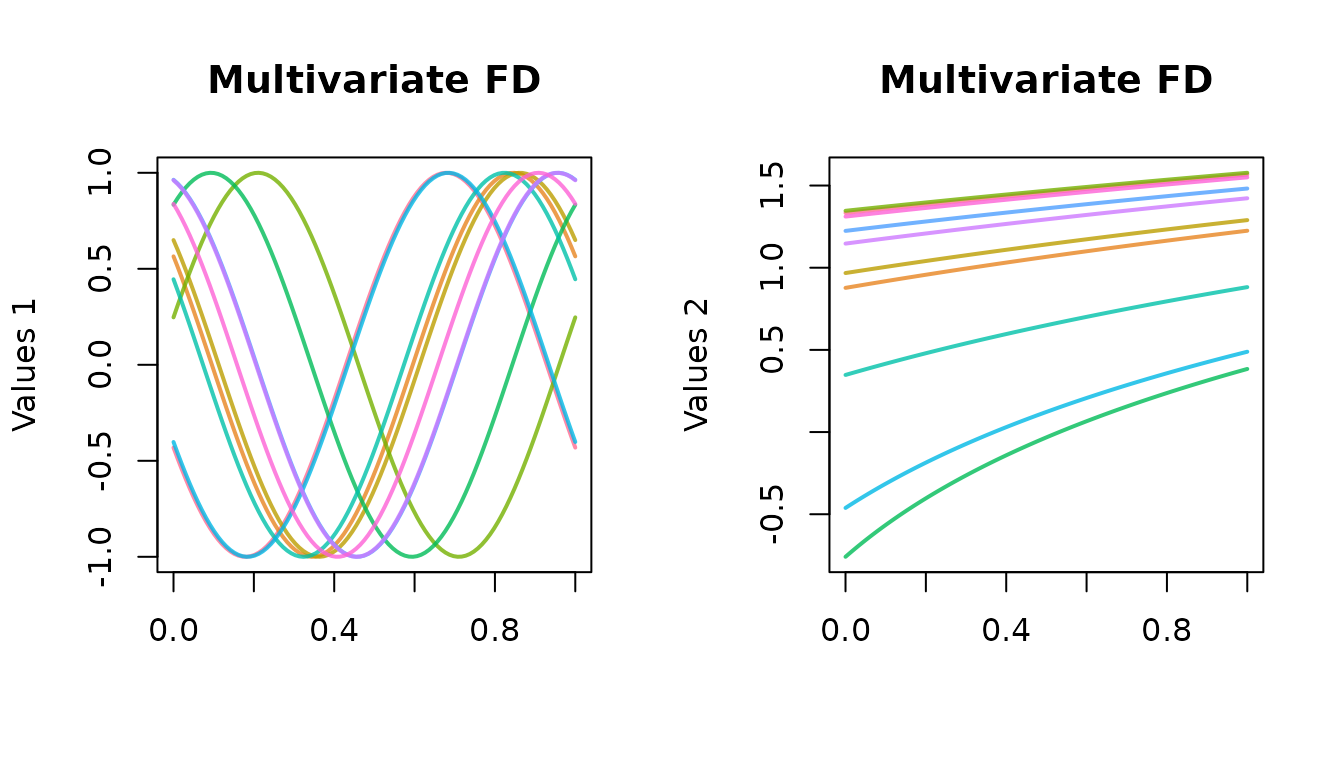
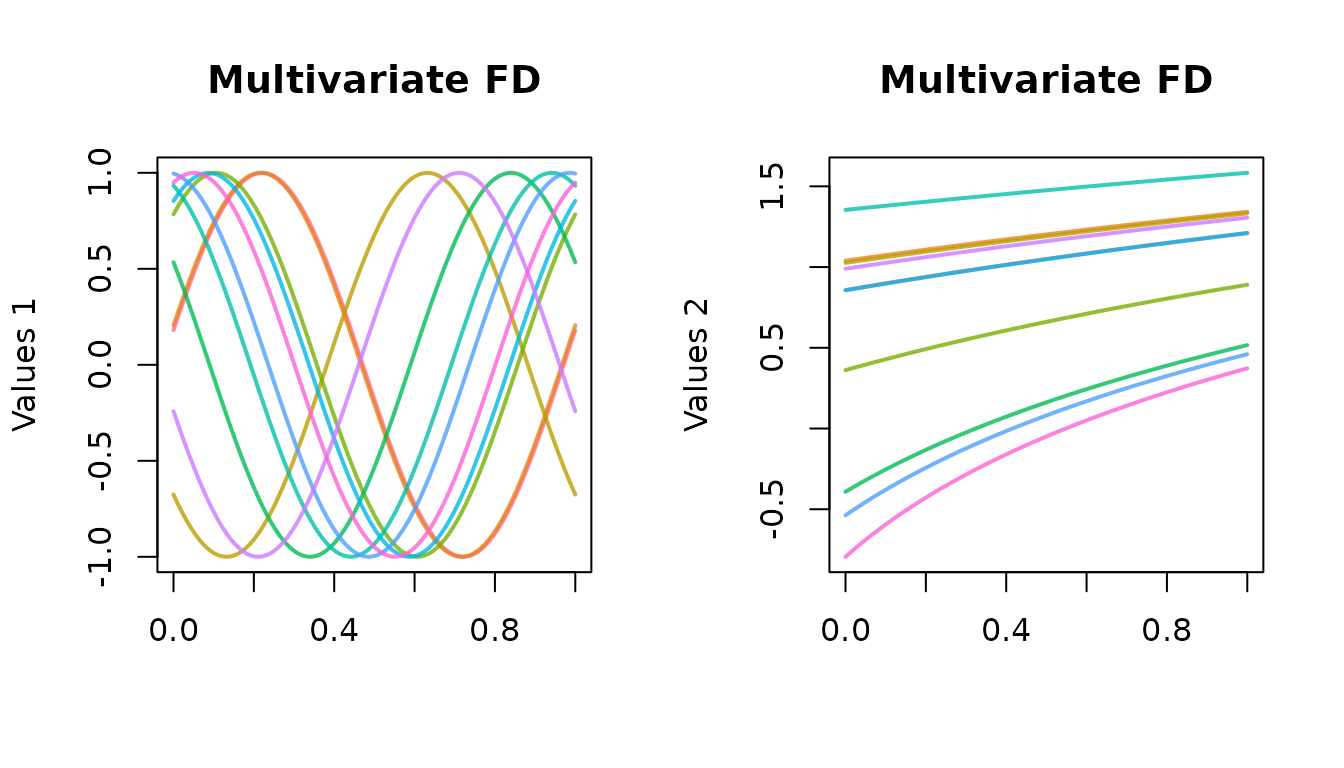
Deploying to gh-pages from @ astamm/roahd@613a776ad0b89173ab76749149ef0c1ee2dfa532 🚀

diff --git a/articles/roahd.html b/articles/roahd.html
@@ -79,7 +79,7 @@
       <h1 data-toc-skip>roahd</h1>
                         <h4 data-toc-skip class="author">Nicholas Tarabelloni</h4>
             
-            <h4 data-toc-skip class="date">2022-01-31</h4>
+            <h4 data-toc-skip class="date">2022-02-08</h4>
       
       <small class="dont-index">Source: <a href="https://github.com/astamm/roahd/blob/HEAD/vignettes/roahd.Rmd" class="external-link"><code>vignettes/roahd.Rmd</code></a></small>
       <div class="hidden name"><code>roahd.Rmd</code></div>
@@ -106,11 +106,9 @@
 <p><code>S3</code> class <code>fData</code> implements a representation of univariate functional datasets. They are obtained once specifying, for each observation in the functional dataset, a set of measurements over a discrete grid, representing the dependent variable indexing the functional dataset (e.g. time).</p>
 <p>In other words, if we denote by <span class="math inline">\(T = [t_0, t_1, \ldots, t_{P-1}]\)</span> an evenly spaced grid (<span class="math inline">\(t_i - t_{i-1} = h &gt; 0\)</span>), and imagine to deal with a dataset <span class="math inline">\(D_{i,j} = X_i(t_j)\)</span>, <span class="math inline">\(\forall i = 1, \ldots, N\)</span> and <span class="math inline">\(\forall j=0, \ldots, P-1\)</span>, the object <code>fData</code> is built starting from the grid and the values in the following way:</p>
 <div class="sourceCode" id="cb1"><pre class="downlit sourceCode r">
-<code class="sourceCode R"><span class="kw"><a href="https://rdrr.io/r/base/library.html" class="external-link">library</a></span><span class="op">(</span> <span class="va"><a href="https://astamm.github.io/roahd/">roahd</a></span> <span class="op">)</span></code></pre></div>
-<pre><code><span class="co">## Warning in register(): Can't find generic `scale_type` in package ggplot2 to</span>
-<span class="co">## register S3 method.</span></code></pre>
-<div class="sourceCode" id="cb3"><pre class="downlit sourceCode r">
-<code class="sourceCode R"><span class="co"># The number of observations in the functional dataset.</span>
+<code class="sourceCode R"><span class="kw"><a href="https://rdrr.io/r/base/library.html" class="external-link">library</a></span><span class="op">(</span> <span class="va"><a href="https://astamm.github.io/roahd/">roahd</a></span> <span class="op">)</span>
+
+<span class="co"># The number of observations in the functional dataset.</span>
 <span class="va">N</span> <span class="op">=</span> <span class="fl">5</span>
 <span class="co"># The number of points in the 1D grid where the functional data are measured.</span>
 <span class="va">P</span> <span class="op">=</span> <span class="fl">1e2</span>
@@ -144,7 +142,7 @@
 <span class="co">##  $ N     : int 5</span>
 <span class="co">##  $ values: num [1:5, 1:100] 0 1 0 0 -Inf ...</span>
 <span class="co">##  - attr(*, "class")= chr "fData"</span></code></pre>
-<div class="sourceCode" id="cb5"><pre class="downlit sourceCode r">
+<div class="sourceCode" id="cb3"><pre class="downlit sourceCode r">
 <code class="sourceCode R"><span class="fu"><a href="https://rdrr.io/r/graphics/plot.default.html" class="external-link">plot</a></span><span class="op">(</span> <span class="va">fD</span>, main <span class="op">=</span> <span class="st">'Univariate FD'</span>, xlab <span class="op">=</span> <span class="st">'time [s]'</span>, ylab <span class="op">=</span> <span class="st">'values'</span>, lwd <span class="op">=</span> <span class="fl">2</span> <span class="op">)</span></code></pre></div>
 <p><img src="roahd_files/figure-html/fData-1.png" width="384" style="display: block; margin: auto;"> Thus, an object <code>fData</code> is a list containing: the fields <code>t0</code>, <code>tP</code>, defining the starting and end point of the one dimensional grid of the <code>fData</code> object, the constant step size <code>h</code> and the number of grid points <code>P</code> and the field <code>values</code> defining the measurements of the dataset over the one dimensional grid.</p>
 </div>
@@ -152,7 +150,7 @@
 <h3 id="mfdata">mfData<a class="anchor" aria-label="anchor" href="#mfdata"></a>
 </h3>
 <p>An <code>mfData</code> object, instead, implements a multivariate functional dataset, i.e.  a collection of functions having more than one components, each one depending on the same variable. In practice, we deal with a discrete grid <span class="math inline">\([t_0, t_1, \ldots, t_{P-1}]\)</span> and a dataset of <span class="math inline">\(N\)</span> elements, each one having <span class="math inline">\(L\)</span> components observed over the same discrete grid: <span class="math inline">\(D_{i,j,k} = X_{i,k}(t_{j})\)</span>, <span class="math inline">\(\forall i = 1, \ldots, N\)</span>, <span class="math inline">\(\forall j = 0, \ldots, P - 1\)</span> and <span class="math inline">\(\forall k = 1, \ldots, L\)</span>.</p>
-<div class="sourceCode" id="cb6"><pre class="downlit sourceCode r">
+<div class="sourceCode" id="cb4"><pre class="downlit sourceCode r">
 <code class="sourceCode R"><span class="co"># Creating some values for first component of the dataset</span>
 <span class="va">Data_1</span> <span class="op">=</span> <span class="fu"><a href="https://rdrr.io/r/base/t.html" class="external-link">t</a></span><span class="op">(</span> <span class="fu"><a href="https://rdrr.io/r/base/lapply.html" class="external-link">sapply</a></span><span class="op">(</span> <span class="fu"><a href="https://rdrr.io/r/stats/Uniform.html" class="external-link">runif</a></span><span class="op">(</span> <span class="fl">10</span>, <span class="fl">0</span>, <span class="fl">4</span> <span class="op">)</span>, 
                     <span class="kw">function</span><span class="op">(</span> <span class="va">phase</span> <span class="op">)</span> <span class="fu"><a href="https://rdrr.io/r/base/Trig.html" class="external-link">sin</a></span><span class="op">(</span> <span class="fl">2</span> <span class="op">*</span> <span class="va">pi</span> <span class="op">*</span> <span class="va">grid</span> <span class="op">+</span> <span class="va">phase</span> <span class="op">)</span> <span class="op">)</span> <span class="op">)</span>
@@ -182,7 +180,7 @@
 <span class="co">##   .. ..$ h     : num 0.0101</span>
 <span class="co">##   .. ..$ P     : int 100</span>
 <span class="co">##   .. ..$ N     : int 10</span>
-<span class="co">##   .. ..$ values: num [1:10, 1:100] -0.431 0.565 0.65 0.247 0.834 ...</span>
+<span class="co">##   .. ..$ values: num [1:10, 1:100] 0.18 0.206 -0.676 0.784 0.534 ...</span>
 <span class="co">##   .. ..- attr(*, "class")= chr "fData"</span>
 <span class="co">##   ..$ :List of 6</span>
 <span class="co">##   .. ..$ t0    : num 0</span>
@@ -190,23 +188,23 @@
 <span class="co">##   .. ..$ h     : num 0.0101</span>
 <span class="co">##   .. ..$ P     : int 100</span>
 <span class="co">##   .. ..$ N     : int 10</span>
-<span class="co">##   .. ..$ values: num [1:10, 1:100] 1.333 0.877 0.968 1.346 -0.759 ...</span>
+<span class="co">##   .. ..$ values: num [1:10, 1:100] 0.858 1.04 1.026 0.362 -0.392 ...</span>
 <span class="co">##   .. ..- attr(*, "class")= chr "fData"</span>
 <span class="co">##  - attr(*, "class")= chr "mfData"</span></code></pre>
-<div class="sourceCode" id="cb8"><pre class="downlit sourceCode r">
+<div class="sourceCode" id="cb6"><pre class="downlit sourceCode r">
 <code class="sourceCode R"><span class="co"># Each component of the mfData object is an fData object </span>
 <span class="fu"><a href="https://rdrr.io/r/base/lapply.html" class="external-link">sapply</a></span><span class="op">(</span> <span class="va">mfD</span><span class="op">$</span><span class="va">fDList</span>, <span class="va">class</span> <span class="op">)</span></code></pre></div>
 <pre><code><span class="co">## [1] "fData" "fData"</span></code></pre>
-<div class="sourceCode" id="cb10"><pre class="downlit sourceCode r">
+<div class="sourceCode" id="cb8"><pre class="downlit sourceCode r">
 <code class="sourceCode R"><span class="fu"><a href="https://rdrr.io/r/graphics/plot.default.html" class="external-link">plot</a></span><span class="op">(</span> <span class="va">mfD</span>, lwd <span class="op">=</span> <span class="fl">2</span>, main <span class="op">=</span> <span class="st">'Multivariate FD'</span>,
       xlab <span class="op">=</span> <span class="st">'time'</span>, ylab <span class="op">=</span> <span class="fu"><a href="https://rdrr.io/r/base/list.html" class="external-link">list</a></span><span class="op">(</span> <span class="st">'Values 1'</span>, <span class="st">'Values 2'</span> <span class="op">)</span><span class="op">)</span></code></pre></div>
 <p><img src="roahd_files/figure-html/mfData-1.png" width="672" style="display: block; margin: auto;"></p>
 <p>The fact that <code>mfData</code> components are <code>fData</code> objects is indeed conceptually very natural, but also allows for a seamless application of <code>S3</code> methods meant for <code>fData</code> on multivariate functional data components, making the exploration and manipulation of multivariate datasets rather easy:</p>
-<div class="sourceCode" id="cb11"><pre class="downlit sourceCode r">
+<div class="sourceCode" id="cb9"><pre class="downlit sourceCode r">
 <code class="sourceCode R"><span class="fu"><a href="https://rdrr.io/r/graphics/plot.default.html" class="external-link">plot</a></span><span class="op">(</span> <span class="va">mfD</span><span class="op">$</span><span class="va">fDList</span><span class="op">[[</span> <span class="fl">1</span> <span class="op">]</span><span class="op">]</span>, main <span class="op">=</span> <span class="st">'First component'</span>, 
       xlab <span class="op">=</span> <span class="st">'time'</span>, ylab <span class="op">=</span> <span class="st">'Values'</span>, lwd <span class="op">=</span> <span class="fl">2</span> <span class="op">)</span></code></pre></div>
 <p>Moreover, <code>mfData</code> objects can be obtained also from a set of homogeneous <code>fData</code> objects, i.e. of equal sample size and defined on the same grid:</p>
-<div class="sourceCode" id="cb12"><pre class="downlit sourceCode r">
+<div class="sourceCode" id="cb10"><pre class="downlit sourceCode r">
 <code class="sourceCode R"><span class="va">fD_1</span> <span class="op">=</span> <span class="fu"><a href="../reference/fData.html">fData</a></span><span class="op">(</span> <span class="va">grid</span>, <span class="va">Data_1</span> <span class="op">)</span>
 
 <span class="va">fD_2</span> <span class="op">=</span> <span class="fu"><a href="../reference/fData.html">fData</a></span><span class="op">(</span> <span class="va">grid</span>, <span class="va">Data_2</span> <span class="op">)</span>
@@ -219,7 +217,7 @@
 <h3 id="subsetting-fdata">Subsetting fData<a class="anchor" aria-label="anchor" href="#subsetting-fdata"></a>
 </h3>
 <p><code>fData</code> objects can be subset using a suitably overloaded operator <code>[.fData</code>, that allows for the use of standard slices of <code>matrix</code> and <code>array</code> classes also for <code>fData</code>.</p>
-<div class="sourceCode" id="cb13"><pre class="downlit sourceCode r">
+<div class="sourceCode" id="cb11"><pre class="downlit sourceCode r">
 <code class="sourceCode R"><span class="co"># Subsetting fData and returning result in matrix form</span>
 <span class="va">fD</span><span class="op">[</span> <span class="fl">1</span> , <span class="fl">1</span>, as_fData <span class="op">=</span> <span class="cn">FALSE</span> <span class="op">]</span>
 
@@ -241,7 +239,7 @@
 </h3>
 <p>An algebra of <code>fData</code> objects is also implemented, making it easy to sum, subtract, multiply and divide these objects by meaningful and compliant structures.</p>
 <p><strong>Sums</strong> and <strong>subtractions</strong>, available through <code>+</code> and <code>-</code> operators (see help at <code>+-.fData</code>), allow to sum an <code>fData</code> on the left hand side and a compliant structure on the right hand side. This can be either another <code>fData</code> of the same sample size and defined over the same grid, or a 1D/2D data structure with a number of columns equal <code>fData</code>’s grid length (i.e. <code>P</code>), and number of rows equal to <code>fData</code>’s sample size (i.e. <code>N</code>) or equal to one (in this case the only observation available is recycled <code>N</code> times). The operations are then performed element-wise between the lhs and rhs.</p>
-<div class="sourceCode" id="cb14"><pre class="downlit sourceCode r">
+<div class="sourceCode" id="cb12"><pre class="downlit sourceCode r">
 <code class="sourceCode R"><span class="va">fD</span> <span class="op">+</span> <span class="va">fD</span>
 
 <span class="va">fD</span> <span class="op">+</span> <span class="fu"><a href="https://rdrr.io/r/base/matrix.html" class="external-link">matrix</a></span><span class="op">(</span> <span class="fl">1</span>, nrow <span class="op">=</span> <span class="va">N</span>, ncol <span class="op">=</span> <span class="va">P</span> <span class="op">)</span>
@@ -250,7 +248,7 @@
 
 <span class="va">fD</span> <span class="op">+</span> <span class="fl">1</span> <span class="op">:</span> <span class="va">P</span> </code></pre></div>
 <p><strong>Multiplication</strong> and <strong>division</strong>, instead, is implemented only for an <code>fData</code> left hand side and a numeric variable or numeric vector right hand side. In the first case, each function in the functional dataset is multiplied/divided by the specified quantity; in the second case, specifying a vector of length <code>N</code>, the multiplication/division of each functional observation is carried out by the corresponding quantity in the vector, in an element-wise way:</p>
-<div class="sourceCode" id="cb15"><pre class="downlit sourceCode r">
+<div class="sourceCode" id="cb13"><pre class="downlit sourceCode r">
 <code class="sourceCode R"><span class="va">fD</span> <span class="op">*</span> <span class="fl">2</span>
 
 <span class="va">fD</span> <span class="op">/</span> <span class="fl">3</span>
@@ -275,7 +273,7 @@
 </h3>
 <p><code>roahd</code> provides a number of depth definitions, that are exploited by the visualization functions but can also be used by themselves. These are based on the notion of <strong>Band Depth</strong> <span class="citation">(López-Pintado and Romo 2007, 2009)</span>.</p>
 <p><strong>Band Depth</strong> and <strong>Modified Band Depth</strong> are implemented in the functions <code>BD</code> and <code>MBD</code>. Both of them can work with either an <code>fData</code> object, specifying the univariate functional dataset whose depths must be computed, or a matrix of data values (e.g. in the form of <code>fData$values</code> output). <code>MBD</code> can be called with the additional parameters <code>manage_ties</code> (defaulting to <code>FALSE</code>), specifying whether a check for the presence of tied data must be made prior to computing depths, and therefore a suitable computing strategy must be used. The implementation of <code>MBD</code> exploits the recommendations of <span class="citation">(Sun, Genton, and Nychka 2012)</span>, but extends them in order to accommodate for the possible presence of ties.</p>
-<div class="sourceCode" id="cb16"><pre class="downlit sourceCode r">
+<div class="sourceCode" id="cb14"><pre class="downlit sourceCode r">
 <code class="sourceCode R">  <span class="fu"><a href="../reference/BD.html">BD</a></span><span class="op">(</span> <span class="va">fD</span> <span class="op">)</span>
   <span class="fu"><a href="../reference/BD.html">BD</a></span><span class="op">(</span> <span class="va">fD</span><span class="op">$</span><span class="va">values</span> <span class="op">)</span>
   
@@ -285,7 +283,7 @@
   <span class="fu"><a href="../reference/MBD.html">MBD</a></span><span class="op">(</span> <span class="va">fD</span>, manage_ties <span class="op">=</span> <span class="cn">TRUE</span> <span class="op">)</span>
   <span class="fu"><a href="../reference/MBD.html">MBD</a></span><span class="op">(</span> <span class="va">fD</span><span class="op">$</span><span class="va">values</span>, manage_ties <span class="op">=</span> <span class="cn">TRUE</span> <span class="op">)</span></code></pre></div>
 <p>Another definition available is the <strong>Half Region Depth</strong> (along with its modified version), that is built on top of the <strong>Epigraph</strong> and <strong>Hypograph</strong> indexes <span class="citation">(see López-Pintado and Romo 2011)</span>:</p>
-<div class="sourceCode" id="cb17"><pre class="downlit sourceCode r">
+<div class="sourceCode" id="cb15"><pre class="downlit sourceCode r">
 <code class="sourceCode R"><span class="fu"><a href="../reference/HRD.html">HRD</a></span><span class="op">(</span> <span class="va">fD</span> <span class="op">)</span>
 <span class="fu"><a href="../reference/HRD.html">HRD</a></span><span class="op">(</span> <span class="va">fD</span><span class="op">$</span><span class="va">values</span> <span class="op">)</span>
 
@@ -293,7 +291,7 @@
 <span class="fu"><a href="../reference/MHRD.html">MHRD</a></span><span class="op">(</span> <span class="va">fD</span><span class="op">$</span><span class="va">values</span> <span class="op">)</span></code></pre></div>
 <p>A generalization of MBD to multivariate functional data, implementing the ideas of <span class="citation">F. Ieva and Paganoni (2013)</span>, is also available through the functions <code>multiBD</code> and <code>multiMBD</code>. These functions accept either a <code>mfData</code> object, specifying the multivariate functional dataset whose depths have to be computed, or a list of matrices of data values (see example below).</p>
 <p>The function computes the BD or MBD for each component of the multivariate functional dataset and then averages them according to a set of weights. These can be specified in two ways: either with the flag <code>uniform</code>, that is turned into <code>rep( 1/L, L )</code> (where <code>L</code> stands for the number of components in the multivariate dataset), or by providing the actual set of weights to be used. The latter option allows to use ad-hoc set of weights, like in <span class="citation">(Tarabelloni et al. 2015)</span>.</p>
-<div class="sourceCode" id="cb18"><pre class="downlit sourceCode r">
+<div class="sourceCode" id="cb16"><pre class="downlit sourceCode r">
 <code class="sourceCode R">  <span class="fu"><a href="../reference/multiMBD.html">multiBD</a></span><span class="op">(</span> <span class="va">mfD</span>, weights <span class="op">=</span> <span class="st">'uniform'</span> <span class="op">)</span>
   <span class="fu"><a href="../reference/multiMBD.html">multiMBD</a></span><span class="op">(</span> <span class="va">mfD</span>, weights <span class="op">=</span> <span class="st">'uniform'</span>, manage_ties <span class="op">=</span> <span class="cn">FALSE</span> <span class="op">)</span>
 
@@ -321,7 +319,7 @@
   \widehat{m}( t_j ) = \left(\text{arg}\max_{i=1, \ldots, N} MBD( X_i )\right)( t_j), \qquad j = 0, \ldots, P-1.
 \]</span></p>
 <p>The sample mean is implemented in the <code>S3</code> methods <code>mean.fData( x, ... )</code> and <code>mean.mfData( x, ... )</code>, that can be invoked directly on <code>fData</code> and <code>mfData</code> objects. These methods can be called directly without the <code>.fData</code> or <code>.mfData</code> suffix, due to their <code>S3</code> nature and call, that allows them to be dispatched from the standard <code>mean</code> function. The sample median, instead, is implemented in the functions <code>median_fData( fData, type = 'MBD', ... )</code> and <code>median_mfData( mfData, type = 'multiMBD', ... )</code>. Here, the <code>type</code> flag can take any name of functions (available in the caller’s environment) that can be used to compute the depths defining the sample median, taking respectively a 2D matrix of data values and a list of 2D matrix of data values as argument (plus, optionally, the dots arguments).</p>
-<div class="sourceCode" id="cb19"><pre class="downlit sourceCode r">
+<div class="sourceCode" id="cb17"><pre class="downlit sourceCode r">
 <code class="sourceCode R">  <span class="co"># Exploiting the S3 nature of these functions and the dispatching from the </span>
   <span class="co"># standard `mean` function</span>
   <span class="fu"><a href="https://rdrr.io/r/base/mean.html" class="external-link">mean</a></span><span class="op">(</span> <span class="va">fD</span> <span class="op">)</span>
@@ -349,7 +347,7 @@
 <p>Given a multivariate functional dataset with observations of <span class="math inline">\(L\)</span> components, <span class="math inline">\(X_1, X_2,\ldots, X_N\)</span>, the covariance function has the following block structure: <span class="math inline">\(C^{k,l} = [ Cov(X_k(t_i),X_l(t_j))]_{i,j=1}^{P}\)</span>, for <span class="math inline">\(k,l = 1, \ldots, L\)</span>. Of course, it is <span class="math inline">\(C^{k,l} = [C^{l,k}]^T\)</span>. Analogously, the cross-covariance between two multivariate datasets is given by the cross covariances of the components.</p>
 <p>When <code>X</code> is a univariate functional dataset, and if <code>Y</code> is <code>NULL</code>, <code>cov_fun</code> returns the sample covariance function of the functional dataset, defined over the tensorized grid where <code>X</code> is defined. If <code>Y</code> is a univariate functional dataset (in form of <code>fData</code> object), the method returns the cross-covariance function of <code>X</code> and <code>Y</code>.</p>
 <p>When <code>X</code> is a multivariate dataset, <code>Y</code> can be <code>NULL</code>, an <code>fData</code> or a <code>mfData</code> object. In the first case the method returns the covariance function of <code>X</code>, in form of a list of <em>only</em> the upper-triangular blocks. The blocks are sorted in the list by row, therefore the first is the covariance of the first component, then the cross-covariance of the first component with the second, etc. In the second case, the method returns the list of cross-covariances between <code>X</code>’s components and <code>Y</code>. In the third case, the method returns the list of upper-triangular blocks of cross-covariances between <code>X</code>’s and <code>Y</code>’s components.</p>
-<div class="sourceCode" id="cb20"><pre class="downlit sourceCode r">
+<div class="sourceCode" id="cb18"><pre class="downlit sourceCode r">
 <code class="sourceCode R">    <span class="co"># Simple covariance function</span>
     <span class="va">C1</span> <span class="op">=</span> <span class="fu"><a href="../reference/cov_fun.html">cov_fun</a></span><span class="op">(</span> <span class="va">fD</span> <span class="op">)</span>
 
@@ -360,7 +358,7 @@
     <span class="va">BC</span> <span class="op">=</span> <span class="fu"><a href="../reference/cov_fun.html">cov_fun</a></span><span class="op">(</span> <span class="va">mfD</span> <span class="op">)</span></code></pre></div>
 <p>Each covariance function estimate (the elements of the list in the multivariate case, too) is returned as an instance of the <code>S3</code> class <code>Cov</code>, that stores the values of the covariance matrix as well as the grid parameters.</p>
 <p><code>plot.Cov</code>, an <code>S3</code> specialization of <code>plot</code> is available as plotting method for <code>Cov</code> objects. It is built around <code><a href="https://rdrr.io/r/graphics/image.html" class="external-link">graphics::image</a></code>, hence all the additional parameters of <code>image</code> can be used to customize it.</p>
-<div class="sourceCode" id="cb21"><pre class="downlit sourceCode r">
+<div class="sourceCode" id="cb19"><pre class="downlit sourceCode r">
 <code class="sourceCode R">  <span class="fu"><a href="https://rdrr.io/r/graphics/plot.default.html" class="external-link">plot</a></span><span class="op">(</span> <span class="va">C1</span>, main <span class="op">=</span> <span class="st">'Covariance function'</span>, xlab <span class="op">=</span> <span class="st">'time'</span>, ylab <span class="op">=</span> <span class="st">'time'</span> <span class="op">)</span></code></pre></div>
 </div>
 <div class="section level3">
@@ -369,7 +367,7 @@
 <p><code>roahd</code> collects the implementation of some useful indexes that can be used to describe and summarize functional datasets.</p>
 <p><code>EI</code> and <code>MEI</code> implement the <strong>Epigraph Index</strong> and the <strong>Modified Epigraph Index</strong>, while <code>HI</code> and <code>MHI</code> implement the <strong>Hypograph Index</strong> and the <strong>Modified Hypograph Index</strong> <span class="citation">(see López-Pintado and Romo 2011; Arribas-Gil and Romo 2014)</span>. These indexes can be used to sort data in a top-down and bottom-up fashion, and are used to define the HRD/MHRD and to build the outliergram.</p>
 <p>These <code>S3</code> methods can be called on univariate functional datasets, provided either in form of a <code>fData</code> object or a 2D matrix of values.</p>
-<div class="sourceCode" id="cb22"><pre class="downlit sourceCode r">
+<div class="sourceCode" id="cb20"><pre class="downlit sourceCode r">
 <code class="sourceCode R">  <span class="co"># Calling on fData objects</span>
   <span class="fu"><a href="../reference/EI.html">EI</a></span><span class="op">(</span> <span class="va">fD</span> <span class="op">)</span>
   <span class="fu"><a href="../reference/MEI.html">MEI</a></span><span class="op">(</span> <span class="va">fD</span> <span class="op">)</span>
@@ -387,7 +385,7 @@
 <p>When dealing with multivariate functional data, in particular in case of <strong>bivariate</strong> data, it is possible to compute correlation coefficients between data components that generalize the Kendall’s tau and Spearman’s coefficients <span class="citation">(Valencia, Romo, and Lillo 2015a, 2015b)</span>.</p>
 <p>The function <code>cor_kendall( mfD, ordering = 'max' )</code> allows to compute the Kendall’s tau correlation coefficient between components of a bivariate dataset. The function accepts a <code>mfData</code> object and a criterion to perform the ordering of functional data (this ordering is used to determine the concordances and discordances between pairs in the definition of the coefficient).</p>
 <p>Two criteria are available so far, that directly reflect those proposed in the reference paper: <code>max</code>, for the ordering between maxima of functions, and <code>area</code>, for the ordering between area-under-the-curve of functions.</p>
-<div class="sourceCode" id="cb23"><pre class="downlit sourceCode r">
+<div class="sourceCode" id="cb21"><pre class="downlit sourceCode r">
 <code class="sourceCode R">  <span class="va">N</span> <span class="op">=</span> <span class="fl">10</span>
   <span class="va">P</span> <span class="op">=</span> <span class="fl">1e3</span>
 
@@ -402,15 +400,15 @@
   
   <span class="fu"><a href="https://rdrr.io/r/graphics/plot.default.html" class="external-link">plot</a></span><span class="op">(</span> <span class="va">mfD</span>, main <span class="op">=</span> <span class="fu"><a href="https://rdrr.io/r/base/list.html" class="external-link">list</a></span><span class="op">(</span> <span class="st">'Comp. 1'</span>, <span class="st">'Comp. 2'</span><span class="op">)</span> <span class="op">)</span>  </code></pre></div>
 <p><img src="roahd_files/figure-html/cor_kendall_1-1.png" width="700"></p>
-<div class="sourceCode" id="cb24"><pre class="downlit sourceCode r">
+<div class="sourceCode" id="cb22"><pre class="downlit sourceCode r">
 <code class="sourceCode R">  <span class="co"># Kendall correlation of monotonically dependent data is exactly 1</span>
   <span class="fu"><a href="../reference/cor_kendall.html">cor_kendall</a></span><span class="op">(</span> <span class="va">mfD</span>, ordering <span class="op">=</span> <span class="st">'max'</span> <span class="op">)</span></code></pre></div>
 <pre><code><span class="co">## [1] 1</span></code></pre>
-<div class="sourceCode" id="cb26"><pre class="downlit sourceCode r">
+<div class="sourceCode" id="cb24"><pre class="downlit sourceCode r">
 <code class="sourceCode R">  <span class="fu"><a href="../reference/cor_kendall.html">cor_kendall</a></span><span class="op">(</span> <span class="va">mfD</span>, ordering <span class="op">=</span> <span class="st">'area'</span> <span class="op">)</span></code></pre></div>
 <pre><code><span class="co">## [1] 1</span></code></pre>
 <p>The function <code>cor_spearman( mfD, ordering = 'MEI', ... )</code> can be used to compute the Spearman correlation coefficient for a bivariate <code>mfData</code> object, tuning the ordering policy specified by <code>ordering</code> (defaulting to <code>MEI</code>) to rank univariate components and then compute the correlation coefficient. Besides <code>MEI</code>, also <code>MHI</code> can be used to rank univariate components.</p>
-<div class="sourceCode" id="cb28"><pre class="downlit sourceCode r">
+<div class="sourceCode" id="cb26"><pre class="downlit sourceCode r">
 <code class="sourceCode R"><span class="co"># Spearman correlation of monotonically dependent data is exactly 1</span>
   <span class="fu"><a href="../reference/cor_spearman.html">cor_spearman</a></span><span class="op">(</span> <span class="va">mfD</span>, ordering <span class="op">=</span> <span class="st">'MEI'</span> <span class="op">)</span>
 <span class="co">## [1] 1</span>
@@ -429,7 +427,7 @@
 <p>The function <code>generate_gauss_fdata(N, centerline, Cov = NULL, CholCov = NULL)</code> can be used to simulate a population of such gaussian functional data. The required arguments are: <code>N</code> the number of elements to be generated; <code>centerline</code>, the center of the distribution (mean or median); <code>Cov</code>, a matrix representation of the desired covariance function, intended as the measurements of such function over a tensor grid whose marginal must be the grid where the functional data will be defined (i.e. the argument <code>grid</code> in <code>fData</code>); <code>CholCov</code> the Cholesky factor of the discrete representation of the covariance function over the tensor grid (optional and alternative to the argument <code>Cov</code>). The inner procedure to generate the synthetic population of gaussian functional data makes use of the Cholesky factor of <code>Cov</code>, hence by providing its Cholesky factor, if already present in the caller’s scope, can save computing time.</p>
 <p>A built-in function can be used to generate exponential-like covariance functions, namely <code>exp_cov_function( grid, alpha, beta )</code>, generating the discretized version of a covariance of the form <span class="math inline">\(C(s,t) = \alpha e^{-\beta | s - t | }\)</span> over a lattice given by the tensorization of grid in <code>grid</code>.</p>
 <p>A comprehensive example is the following:</p>
-<div class="sourceCode" id="cb29"><pre class="downlit sourceCode r">
+<div class="sourceCode" id="cb27"><pre class="downlit sourceCode r">
 <code class="sourceCode R">  <span class="va">N</span> <span class="op">=</span> <span class="fl">50</span>
   <span class="va">P</span> <span class="op">=</span> <span class="fl">1e3</span>
 
@@ -453,7 +451,7 @@
 <p>where <span class="math inline">\(Cor( \epsilon_j(t),\epsilon_l(t))=\rho_{j,l}\)</span> specifies a (<em>synchronous</em>) correlation structure among the components of the functional dataset.</p>
 <p>In order to use the function one should provide: <code>N</code>, the number of elements to simulate; <code>L</code>, the number of components of the multivariate functional data; <code>centerline</code>, a matrix containing (by rows) the centerline for each component; <code>correlations</code>, a vector of length <code>1/2 * L * ( L - 1 )</code>, containing all the correlation coefficients among the components; either <code>listCov</code> or <code>listCholCov</code>, a list containing either the discretized covariance functions over the tensorized grid where functional data will be defined), or their Cholesky factor.</p>
 <p>A comprehensive example is the following:</p>
-<div class="sourceCode" id="cb30"><pre class="downlit sourceCode r">
+<div class="sourceCode" id="cb28"><pre class="downlit sourceCode r">
 <code class="sourceCode R">  <span class="va">N</span> <span class="op">=</span> <span class="fl">10</span>
   <span class="va">P</span> <span class="op">=</span> <span class="fl">1e3</span>
 
@@ -484,7 +482,7 @@
 <p>The functional boxplot is obtained by ranking functions from the center of the distribution outwards thanks to a depth definition, computing the region of 50% most central functions and inflating such region by a factor <code>F</code>. Any function crossing these boundaries is flagged as outlier. The default value for <code>F</code> is <code>1.5</code>, otherwise it can be set with the argument <code>Fvalue</code>.</p>
 <p>The argument <code>Depths</code> can take either the name of the function to call in order to compute the depths (default is <code>MBD</code>), or a vector containing the depth values for the provided dataset.</p>
 <p>An example is:</p>
-<div class="sourceCode" id="cb31"><pre class="downlit sourceCode r">
+<div class="sourceCode" id="cb29"><pre class="downlit sourceCode r">
 <code class="sourceCode R">  <span class="fu"><a href="https://rdrr.io/r/base/Random.html" class="external-link">set.seed</a></span><span class="op">(</span><span class="fl">1618</span><span class="op">)</span>
 
   <span class="va">N</span> <span class="op">=</span> <span class="fl">1e2</span>
@@ -504,7 +502,7 @@
   
   <span class="fu"><a href="../reference/fbplot.html">fbplot</a></span><span class="op">(</span> <span class="va">fD</span>, main <span class="op">=</span> <span class="st">'Fbplot'</span>, Fvalue <span class="op">=</span> <span class="fl">3.5</span> <span class="op">)</span></code></pre></div>
 <p><img src="roahd_files/figure-html/fbplot_fData-1.png" width="672" style="display: block; margin: auto;"></p>
-<div class="sourceCode" id="cb32"><pre class="downlit sourceCode r">
+<div class="sourceCode" id="cb30"><pre class="downlit sourceCode r">
 <code class="sourceCode R">  <span class="fu"><a href="../reference/fbplot.html">fbplot</a></span><span class="op">(</span> <span class="va">mfD</span>, main <span class="op">=</span> <span class="fu"><a href="https://rdrr.io/r/base/list.html" class="external-link">list</a></span><span class="op">(</span> <span class="st">'Comp. 1'</span>, <span class="st">'Comp. 2'</span> <span class="op">)</span>, Fvalue <span class="op">=</span> <span class="fl">3.5</span> <span class="op">)</span></code></pre></div>
 <p><img src="roahd_files/figure-html/fbplot_fData-2.png" width="672" style="display: block; margin: auto;"></p>
 <p>The method <code>fboplot.fData</code> also allows to automatically compute the best adjustment factor <code>F</code> that yields a desired proportion of outliers (True Positive Rate, <code>TPR</code>) out of a Gaussian dataset with same center and covariance function as the <code>fData</code> object <span class="citation">(see Sun and Genton 2012)</span>.</p>
@@ -529,7 +527,7 @@
 <code>VERBOSE</code>: a parameter controlling the verbosity of the adjustment process;</li>
 </ul>
 <p><em>Suggestion</em>: Try and select a sufficiently high value for <code>adjust$trial_size</code>, in fact too small values (the default is <code>8 * adjust$N</code>) will result in the impossibility to carry out the optimization since the TPR percentage is too small compared to the sample size.</p>
-<div class="sourceCode" id="cb33"><pre class="downlit sourceCode r">
+<div class="sourceCode" id="cb31"><pre class="downlit sourceCode r">
 <code class="sourceCode R">  <span class="fu"><a href="../reference/fbplot.html">fbplot</a></span><span class="op">(</span> <span class="va">fD</span>, adjust <span class="op">=</span> <span class="fu"><a href="https://rdrr.io/r/base/list.html" class="external-link">list</a></span><span class="op">(</span> N_trials <span class="op">=</span> <span class="fl">20</span>, trial_size <span class="op">=</span> <span class="va">N</span>, TPR <span class="op">=</span> <span class="fl">0.007</span>, F_min <span class="op">=</span> <span class="fl">0.1</span>, F_max <span class="op">=</span> <span class="fl">20</span> <span class="op">)</span>, xlab <span class="op">=</span> <span class="st">'grid'</span>, ylab <span class="op">=</span> <span class="st">'values'</span>, main <span class="op">=</span> <span class="st">'Adjusted functional boxplot'</span> <span class="op">)</span></code></pre></div>
 <p><img src="roahd_files/figure-html/fbplot_fData_adjust-1.png" width="672" style="display: block; margin: auto;"></p>
 <pre><code><span class="co">## $Depth</span>
@@ -562,7 +560,7 @@
 </h3>
 <p>A method that can be used to detect <strong>shape outliers</strong> is the outliergram <span class="citation">(see Arribas-Gil and Romo 2014)</span>, based on the computation of MBD and MEI of univariate functional data. Such pairs are compared to a limiting parabola, where they should be placed in case of non-crossing data, and outliers are then identified applying a thresholding rule.</p>
 <p>The function <code>outliergram</code> displays the outliergram of a univariate functional dataset of class <code>fData</code>, and returns a vector of IDs indicating the shape outlying observations in the dataset.</p>
-<div class="sourceCode" id="cb35"><pre class="downlit sourceCode r">
+<div class="sourceCode" id="cb33"><pre class="downlit sourceCode r">
 <code class="sourceCode R"><span class="fu"><a href="https://rdrr.io/r/base/Random.html" class="external-link">set.seed</a></span><span class="op">(</span> <span class="fl">1618</span> <span class="op">)</span>
 
 <span class="va">N</span> <span class="op">=</span> <span class="fl">100</span>
@@ -617,7 +615,7 @@
 <span class="co">## </span>
 <span class="co">## $ID_outliers</span>
 <span class="co">## [1]  56  74 101 102 103 104</span></code></pre>
-<div class="sourceCode" id="cb37"><pre class="downlit sourceCode r">
+<div class="sourceCode" id="cb35"><pre class="downlit sourceCode r">
 <code class="sourceCode R"><span class="fu"><a href="../reference/outliergram.html">outliergram</a></span><span class="op">(</span> <span class="va">fD</span>, Fvalue <span class="op">=</span> <span class="fl">5</span>, display <span class="op">=</span> <span class="cn">TRUE</span> <span class="op">)</span></code></pre></div>
 <p><img src="roahd_files/figure-html/outliergram-2.png" width="672" style="display: block; margin: auto;"></p>
 <pre><code><span class="co">## $Fvalue</span>
@@ -667,7 +665,7 @@
 <li>
 <code>VERBOSE</code> a parameter controlling the verbosity of the adjustment process;</li>
 </ul>
-<div class="sourceCode" id="cb39"><pre class="downlit sourceCode r">
+<div class="sourceCode" id="cb37"><pre class="downlit sourceCode r">
 <code class="sourceCode R"><span class="fu"><a href="../reference/outliergram.html">outliergram</a></span><span class="op">(</span> <span class="va">fD</span>, adjust <span class="op">=</span> <span class="fu"><a href="https://rdrr.io/r/base/list.html" class="external-link">list</a></span><span class="op">(</span> N_trials <span class="op">=</span> <span class="fl">5</span>, trial_size <span class="op">=</span> <span class="fl">5</span> <span class="op">*</span> <span class="fu"><a href="https://rdrr.io/r/base/nrow.html" class="external-link">nrow</a></span><span class="op">(</span> <span class="va">Data</span> <span class="op">)</span>, TPR <span class="op">=</span> <span class="fl">0.01</span>, VERBOSE <span class="op">=</span> <span class="cn">FALSE</span> <span class="op">)</span>, display <span class="op">=</span> <span class="cn">TRUE</span> <span class="op">)</span></code></pre></div>
 <p><img src="roahd_files/figure-html/outliergram_adjusted-1.png" width="672"></p>
 <pre><code><span class="co">## $Fvalue</span>

diff --git a/reference/multivariate_outliergram.html b/reference/multivariate_outliergram.html
@@ -165,7 +165,6 @@ trials of the outliergram and manually select the best value.</p>
 <span class="r-in"></span>
 <span class="r-in"><span class="fu"><a href="https://rdrr.io/r/grDevices/dev.html" class="external-link">dev.new</a></span><span class="op">(</span><span class="op">)</span></span>
 <span class="r-in"><span class="va">out</span> <span class="op">=</span> <span class="fu">multivariate_outliergram</span><span class="op">(</span><span class="va">mfD</span>, Fvalue <span class="op">=</span> <span class="fl">2.</span>, shift<span class="op">=</span><span class="cn">TRUE</span><span class="op">)</span></span>
-<span class="r-wrn co"><span class="r-pr">#&gt;</span> <span class="warning">Warning: </span>no non-missing arguments to max; returning -Inf</span>
 <span class="r-in"><span class="va">col_non_outlying</span> <span class="op">=</span> <span class="fu">scales</span><span class="fu">::</span><span class="fu"><a href="https://scales.r-lib.org/reference/hue_pal.html" class="external-link">hue_pal</a></span><span class="op">(</span> h <span class="op">=</span> <span class="fu"><a href="https://rdrr.io/r/base/c.html" class="external-link">c</a></span><span class="op">(</span> <span class="fl">180</span>, <span class="fl">270</span> <span class="op">)</span>,</span>
 <span class="r-in">                                    l <span class="op">=</span> <span class="fl">60</span> <span class="op">)</span><span class="op">(</span> <span class="va">N</span> <span class="op">-</span> <span class="fu"><a href="https://rdrr.io/r/base/length.html" class="external-link">length</a></span><span class="op">(</span> <span class="va">out</span><span class="op">$</span><span class="va">ID_outliers</span> <span class="op">)</span> <span class="op">)</span></span>
 <span class="r-in"><span class="va">col_non_outlying</span> <span class="op">=</span> <span class="fu"><a href="set_alpha.html">set_alpha</a></span><span class="op">(</span> <span class="va">col_non_outlying</span>, <span class="fl">0.5</span> <span class="op">)</span></span>
